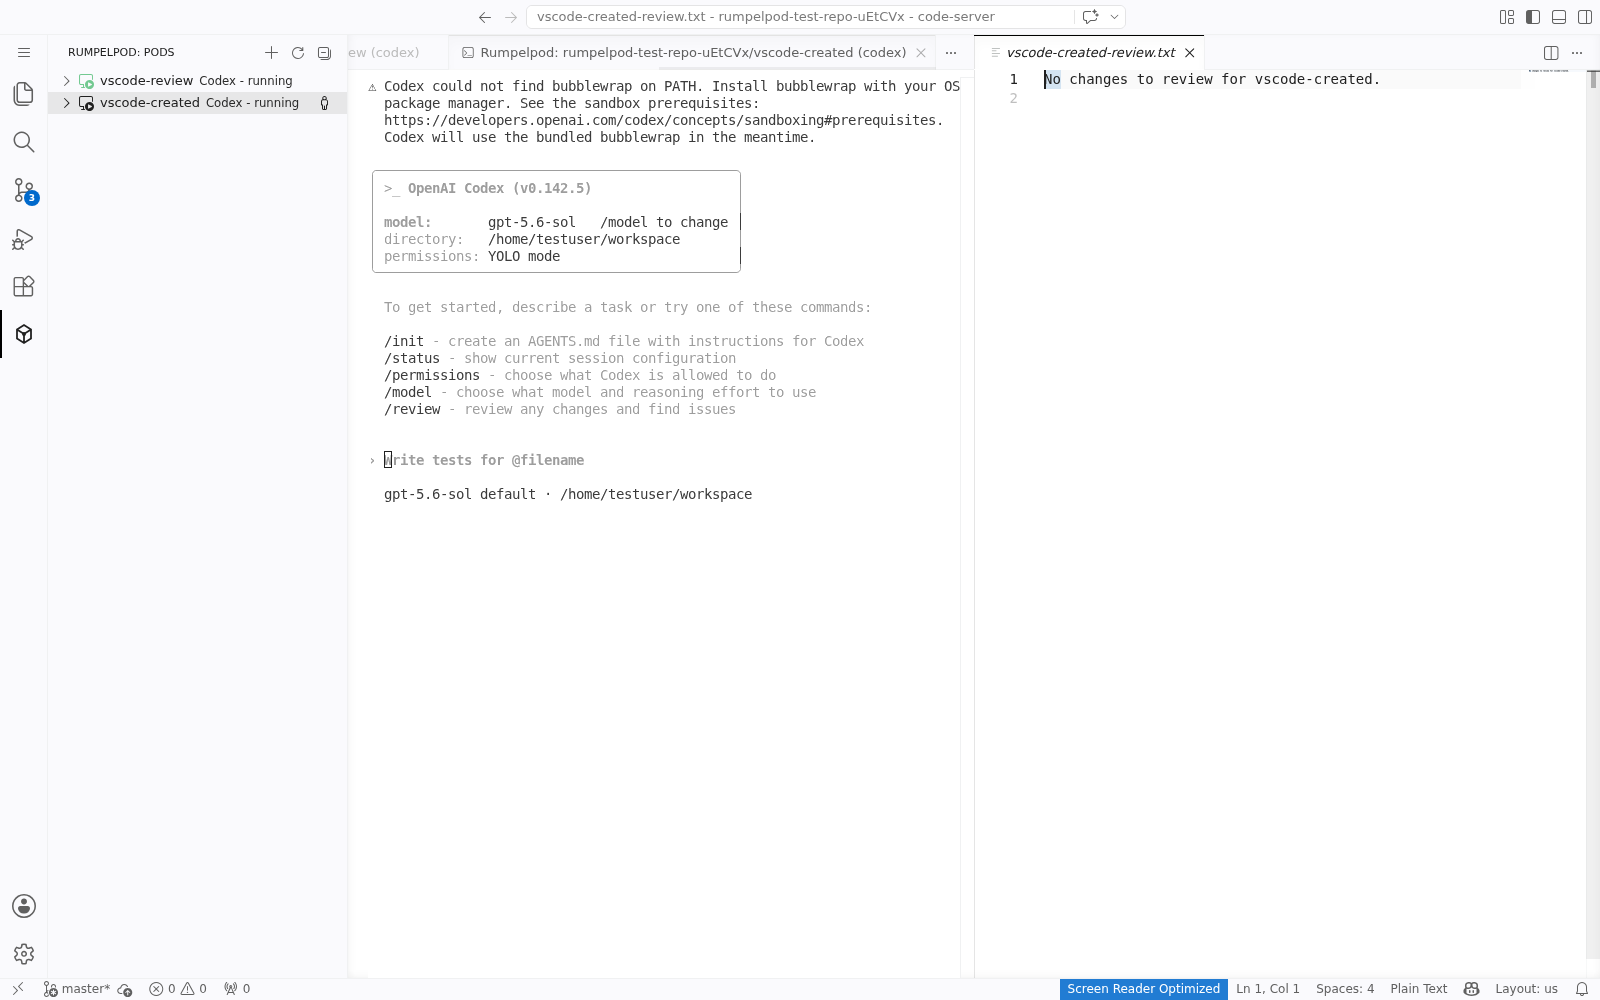
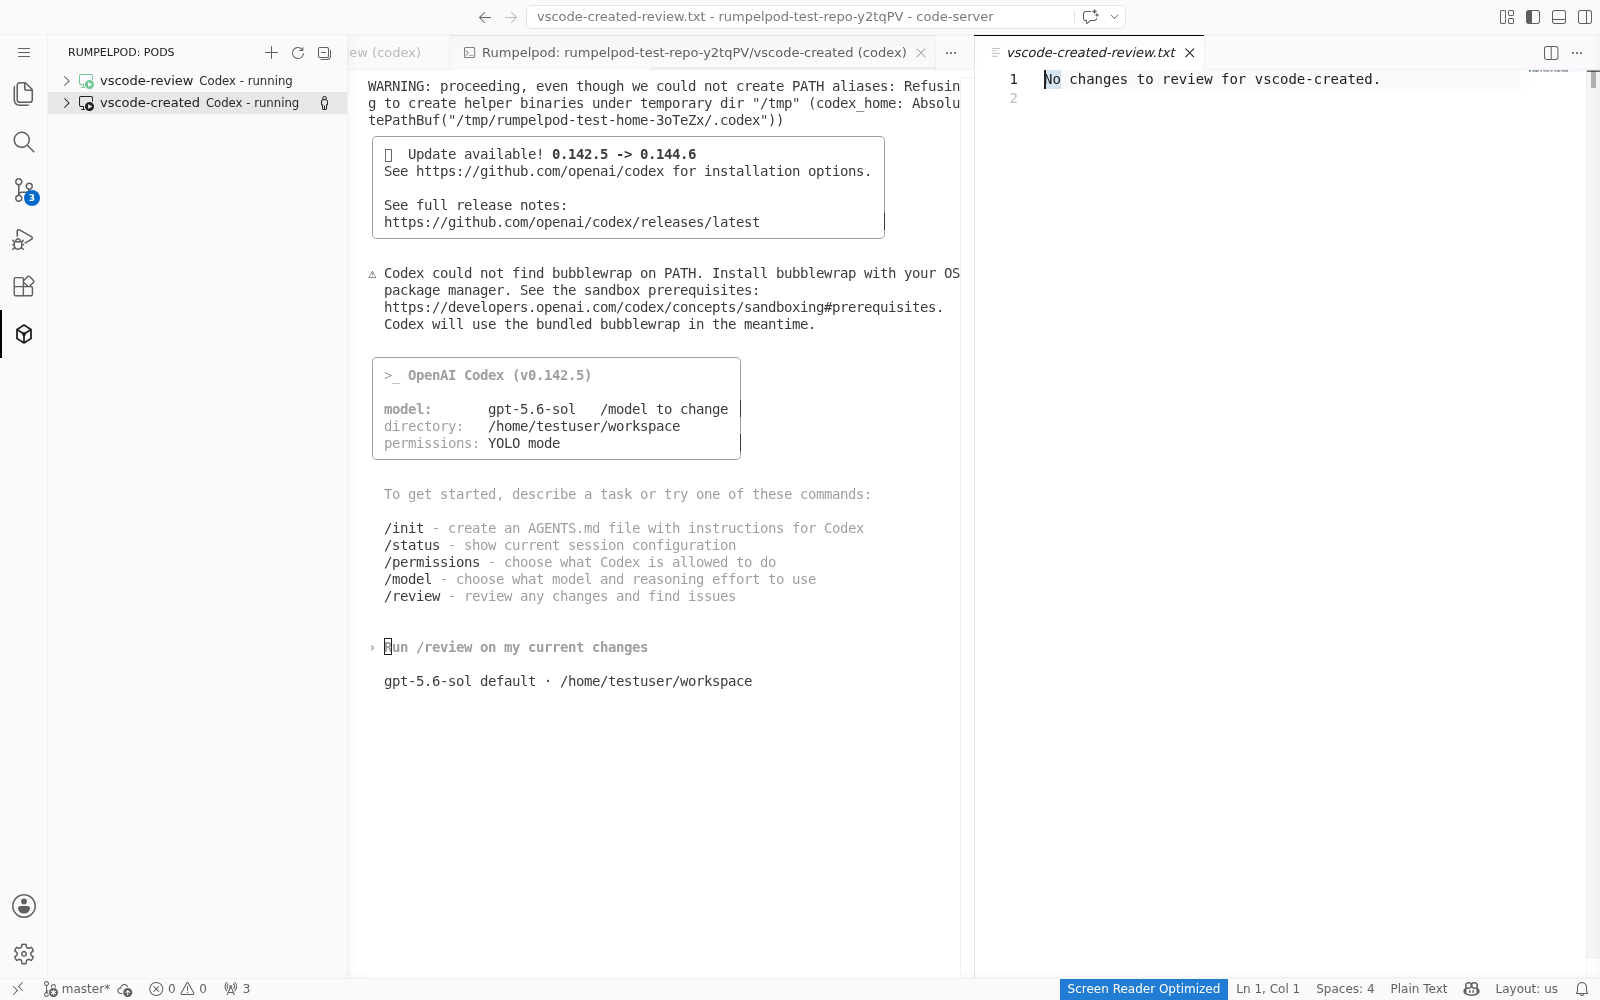
Keep editor sessions and reviews lossless

Changed region(s): [[0.2188, 0.031, 0.5938, 0.651], [0.5312, 0.0, 0.625, 0.031], [0.4375, 0.465, 0.4688, 0.496]]

diff --git a/vscode/src/terminal.ts b/vscode/src/terminal.ts
@@ -11,8 +11,33 @@ const TERMINAL_KEY_ENV = "RUMPELPOD_VSCODE_TERMINAL";
 export class AgentTerminals implements vscode.Disposable {
   private readonly terminals = new Map<string, vscode.Terminal>();
   private readonly closeSubscription: vscode.Disposable;
+  private readonly openSubscription: vscode.Disposable;
 
   public constructor() {
+    this.openSubscription = vscode.window.onDidOpenTerminal((terminal) => {
+      const identity = terminalIdentity(terminal);
+      const matched =
+        identity === undefined
+          ? [...this.terminals.entries()].find(([, candidate]) =>
+              sameTerminal(candidate, terminal),
+            )
+          : undefined;
+      const key = identity ?? matched?.[0];
+      if (key === undefined) {
+        return;
+      }
+      const existing = this.terminals.get(key);
+      if (existing === undefined || existing === terminal) {
+        this.terminals.set(key, terminal);
+        return;
+      }
+      if (terminal.exitStatus !== undefined) {
+        terminal.dispose();
+        return;
+      }
+      existing.dispose();
+      this.terminals.set(key, terminal);
+    });
     this.closeSubscription = vscode.window.onDidCloseTerminal((terminal) => {
       for (const [key, candidate] of this.terminals) {
         if (candidate === terminal) {
@@ -23,6 +48,30 @@ export class AgentTerminals implements vscode.Disposable {
     });
   }
 
+  public waitForRestoration(): Promise<void> {
+    // VS Code restores persistent terminals independently of extension activation.
+    // Let that list settle before deciding which assigned agents need a new process.
+    return new Promise((resolve) => {
+      const earliest = Date.now() + 1_000;
+      let quietTimer: NodeJS.Timeout;
+      let deadline: NodeJS.Timeout;
+      const finish = (): void => {
+        clearTimeout(quietTimer);
+        clearTimeout(deadline);
+        opened.dispose();
+        resolve();
+      };
+      const schedule = (): void => {
+        clearTimeout(quietTimer);
+        const delay = Math.max(250, earliest - Date.now());
+        quietTimer = setTimeout(finish, delay);
+      };
+      const opened = vscode.window.onDidOpenTerminal(schedule);
+      deadline = setTimeout(finish, 3_000);
+      schedule();
+    });
+  }
+
   public show(
     repository: Repository,
     pod: string,
@@ -30,15 +79,29 @@ export class AgentTerminals implements vscode.Disposable {
     executable: string,
   ): vscode.Terminal {
     const key = terminalKey(repository, pod);
-    const existing = this.terminals.get(key) ?? findRestoredTerminal(key);
+    const name = terminalName(repository, pod, agent);
+    const candidates = new Set([
+      ...matchingTerminals(key, name, repository.root),
+      ...(this.terminals.get(key) === undefined ? [] : [this.terminals.get(key)]),
+    ]);
+    const existing = [...candidates].find(
+      (candidate): candidate is vscode.Terminal =>
+        candidate !== undefined && candidate.exitStatus === undefined,
+    );
+    for (const candidate of candidates) {
+      if (candidate !== undefined && candidate !== existing) {
+        candidate.dispose();
+      }
+    }
     if (existing !== undefined) {
       this.terminals.set(key, existing);
       existing.show(false);
       return existing;
     }
+    this.terminals.delete(key);
 
     const terminal = vscode.window.createTerminal({
-      name: `Rumpelpod: ${repository.name}/${pod} (${agent})`,
+      name,
       cwd: repository.root,
       env: { [TERMINAL_KEY_ENV]: key },
       iconPath: new vscode.ThemeIcon("terminal"),
@@ -47,27 +110,32 @@ export class AgentTerminals implements vscode.Disposable {
         preserveFocus: false,
       },
       message: `Starting ${agent} in rumpelpod ${pod}`,
+      shellArgs: [agent, "--create", pod],
+      shellPath: executable,
     });
     this.terminals.set(key, terminal);
     terminal.show(false);
-    terminal.sendText(
-      `${quoteForPosixShell(executable)} ${agent} --create ${quoteForPosixShell(pod)}`,
-      true,
-    );
     return terminal;
   }
 
   public replace(repository: Repository, pod: string): void {
     const key = terminalKey(repository, pod);
-    const terminal = this.terminals.get(key) ?? findRestoredTerminal(key);
-    if (terminal !== undefined) {
-      this.terminals.delete(key);
-      terminal.dispose();
+    const prefix = terminalNamePrefix(repository, pod);
+    const terminals = new Set([
+      ...matchingTerminals(key, prefix, repository.root, true),
+      ...(this.terminals.get(key) === undefined ? [] : [this.terminals.get(key)]),
+    ]);
+    this.terminals.delete(key);
+    for (const terminal of terminals) {
+      if (terminal !== undefined) {
+        terminal.dispose();
+      }
     }
   }
 
   public dispose(): void {
     this.closeSubscription.dispose();
+    this.openSubscription.dispose();
   }
 }
 
@@ -75,13 +143,57 @@ function terminalKey(repository: Repository, pod: string): string {
   return JSON.stringify([repository.root, pod]);
 }
 
-function findRestoredTerminal(key: string): vscode.Terminal | undefined {
-  return vscode.window.terminals.find((terminal) => {
-    const creationOptions = terminal.creationOptions;
-    return "env" in creationOptions && creationOptions.env?.[TERMINAL_KEY_ENV] === key;
+function terminalName(repository: Repository, pod: string, agent: AgentKind): string {
+  return `${terminalNamePrefix(repository, pod)}${agent})`;
+}
+
+function terminalNamePrefix(repository: Repository, pod: string): string {
+  return `Rumpelpod: ${repository.name}/${pod} (`;
+}
+
+function matchingTerminals(
+  key: string,
+  name: string,
+  repositoryRoot: string,
+  prefix = false,
+): vscode.Terminal[] {
+  return vscode.window.terminals.filter((terminal) => {
+    if (terminalIdentity(terminal) === key) {
+      return true;
+    }
+    const nameMatches = prefix ? terminal.name.startsWith(name) : terminal.name === name;
+    if (!nameMatches) {
+      return false;
+    }
+    const cwd = terminalCwd(terminal);
+    return cwd === undefined || cwd === repositoryRoot;
   });
 }
 
-function quoteForPosixShell(value: string): string {
-  return `'${value.replaceAll("'", `'"'"'`)}'`;
+function terminalIdentity(terminal: vscode.Terminal): string | undefined {
+  const creationOptions = terminal.creationOptions;
+  return "env" in creationOptions
+    ? (creationOptions.env?.[TERMINAL_KEY_ENV] ?? undefined)
+    : undefined;
+}
+
+function terminalCwd(terminal: vscode.Terminal): string | undefined {
+  const creationOptions = terminal.creationOptions;
+  if (!("cwd" in creationOptions)) {
+    return undefined;
+  }
+  const cwd = creationOptions.cwd;
+  if (typeof cwd === "string") {
+    return cwd;
+  }
+  return cwd?.fsPath;
+}
+
+function sameTerminal(left: vscode.Terminal, right: vscode.Terminal): boolean {
+  if (left.name !== right.name) {
+    return false;
+  }
+  const leftCwd = terminalCwd(left);
+  const rightCwd = terminalCwd(right);
+  return leftCwd === undefined || rightCwd === undefined || leftCwd === rightCwd;
 }

diff --git a/vscode/src/controller.ts b/vscode/src/controller.ts
@@ -125,7 +125,11 @@ export class RumpelpodController {
 
   public async restoreAssignedPods(): Promise<void> {
     const last = this.model.lastPod();
-    for (const assignment of this.model.assignedPods()) {
+    const assignments = this.model.assignedPods();
+    if (assignments.length > 0) {
+      await this.terminals.waitForRestoration();
+    }
+    for (const assignment of assignments) {
       try {
         const item = await this.tree.findPod(assignment.repository, assignment.pod);
         if (item === undefined) {

diff --git a/rumpelpod/tests/cli/review.rs b/rumpelpod/tests/cli/review.rs
@@ -259,6 +259,41 @@ fn review_shows_new_files() {
 }
 
 #[test]
+fn review_json_preserves_utf8_file_names() {
+    let repo = TestRepo::new();
+    let home = TestHome::new();
+    let executor = ExecutorResources::setup(&home);
+    let daemon = TestDaemon::start(&home);
+    write_test_devcontainer(&repo, "", "");
+    fs::write(repo.path().join(".rumpelpod.json"), &executor.json).unwrap();
+    let pod_name = "review-utf8-file";
+    let file_name = "review-\u{00e4}.txt";
+
+    pod_command(&repo, &daemon)
+        .args(["enter", "--create", pod_name, "--", "echo", "setup"])
+        .success()
+        .expect("Failed to run rumpel enter");
+
+    let command = format!(
+        "printf '%s\\n' 'utf8 review content' > '{file_name}' && git add '{file_name}' && git commit --no-verify -m 'Add UTF-8 review file'"
+    );
+    pod_command(&repo, &daemon)
+        .args(["enter", "--create", pod_name, "--", "sh", "-c", &command])
+        .success()
+        .expect("Failed to commit UTF-8 file in pod");
+
+    let output = pod_command(&repo, &daemon)
+        .args(["review", pod_name, "--json"])
+        .success()
+        .expect("rumpel review --json failed for UTF-8 file");
+    let plan: serde_json::Value =
+        serde_json::from_slice(&output).expect("review plan was not JSON");
+    assert_eq!(plan["files"][0]["path"], file_name);
+    assert_eq!(plan["files"][0]["base_exists"], false);
+    assert_eq!(plan["files"][0]["target_exists"], true);
+}
+
+#[test]
 fn review_multiple_files() {
     let repo = TestRepo::new();
 

diff --git a/rumpelpod/src/review.rs b/rumpelpod/src/review.rs
@@ -170,7 +170,7 @@ fn get_changed_files(
     paths: &[String],
 ) -> Result<Vec<String>> {
     let mut cmd = Command::new("git");
-    cmd.args(["diff", "--name-only", base, target]);
+    cmd.args(["diff", "--name-only", "-z", base, target]);
     if !paths.is_empty() {
         cmd.arg("--");
         cmd.args(paths);
@@ -186,11 +186,16 @@ fn get_changed_files(
         return Err(anyhow::anyhow!("failed to get changed files: {stderr}"));
     }
 
-    let files: Vec<String> = String::from_utf8_lossy(&output.stdout)
-        .lines()
-        .filter(|l| !l.is_empty())
-        .map(|l| l.to_string())
-        .collect();
+    let mut files = Vec::new();
+    for path in output.stdout.split(|byte| *byte == 0) {
+        if path.is_empty() {
+            continue;
+        }
+        let path = std::str::from_utf8(path)
+            .context("changed file path is not valid UTF-8")?
+            .to_string();
+        files.push(path);
+    }
 
     Ok(files)
 }
